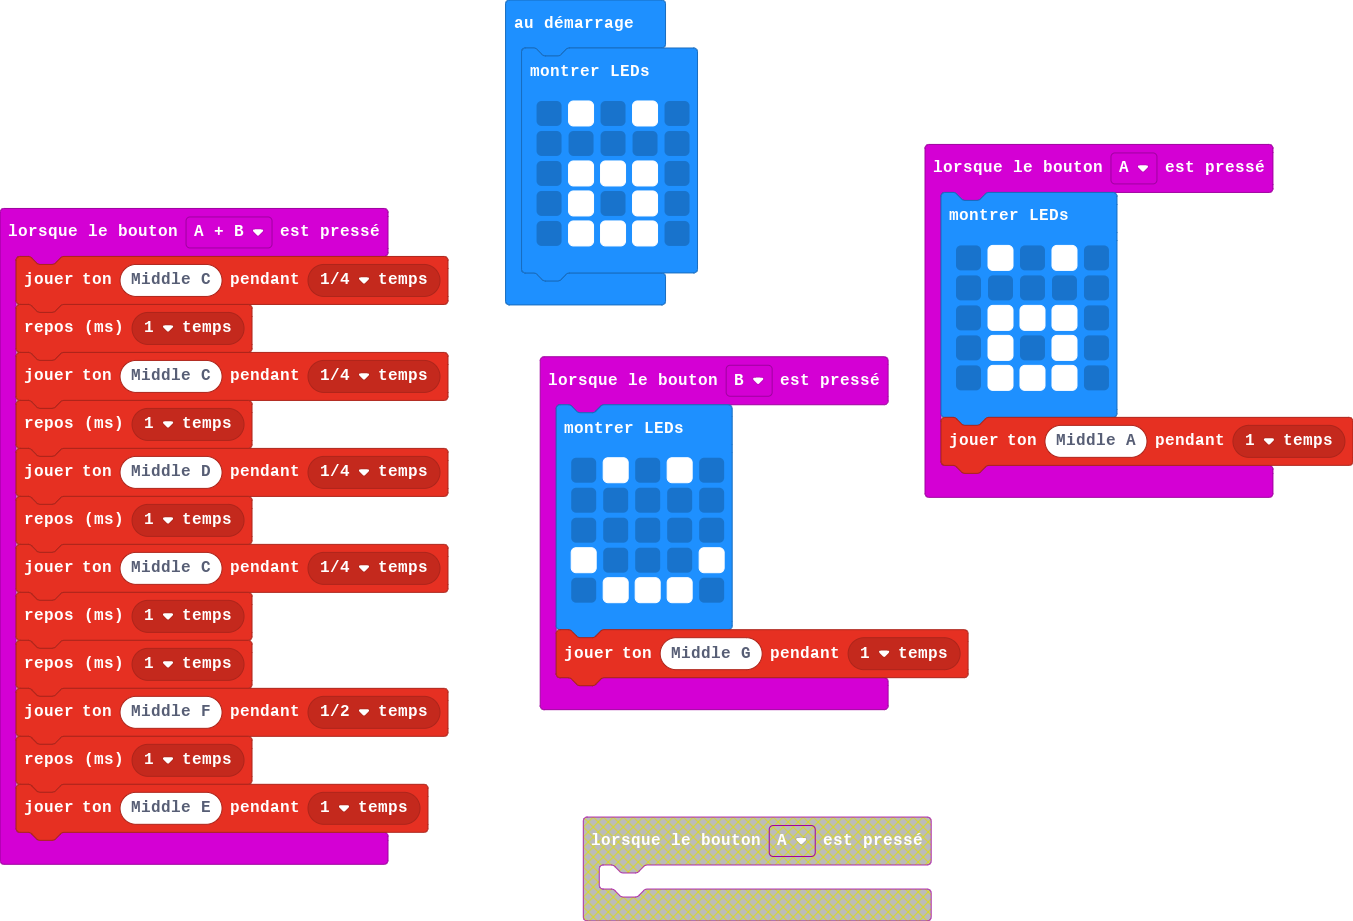
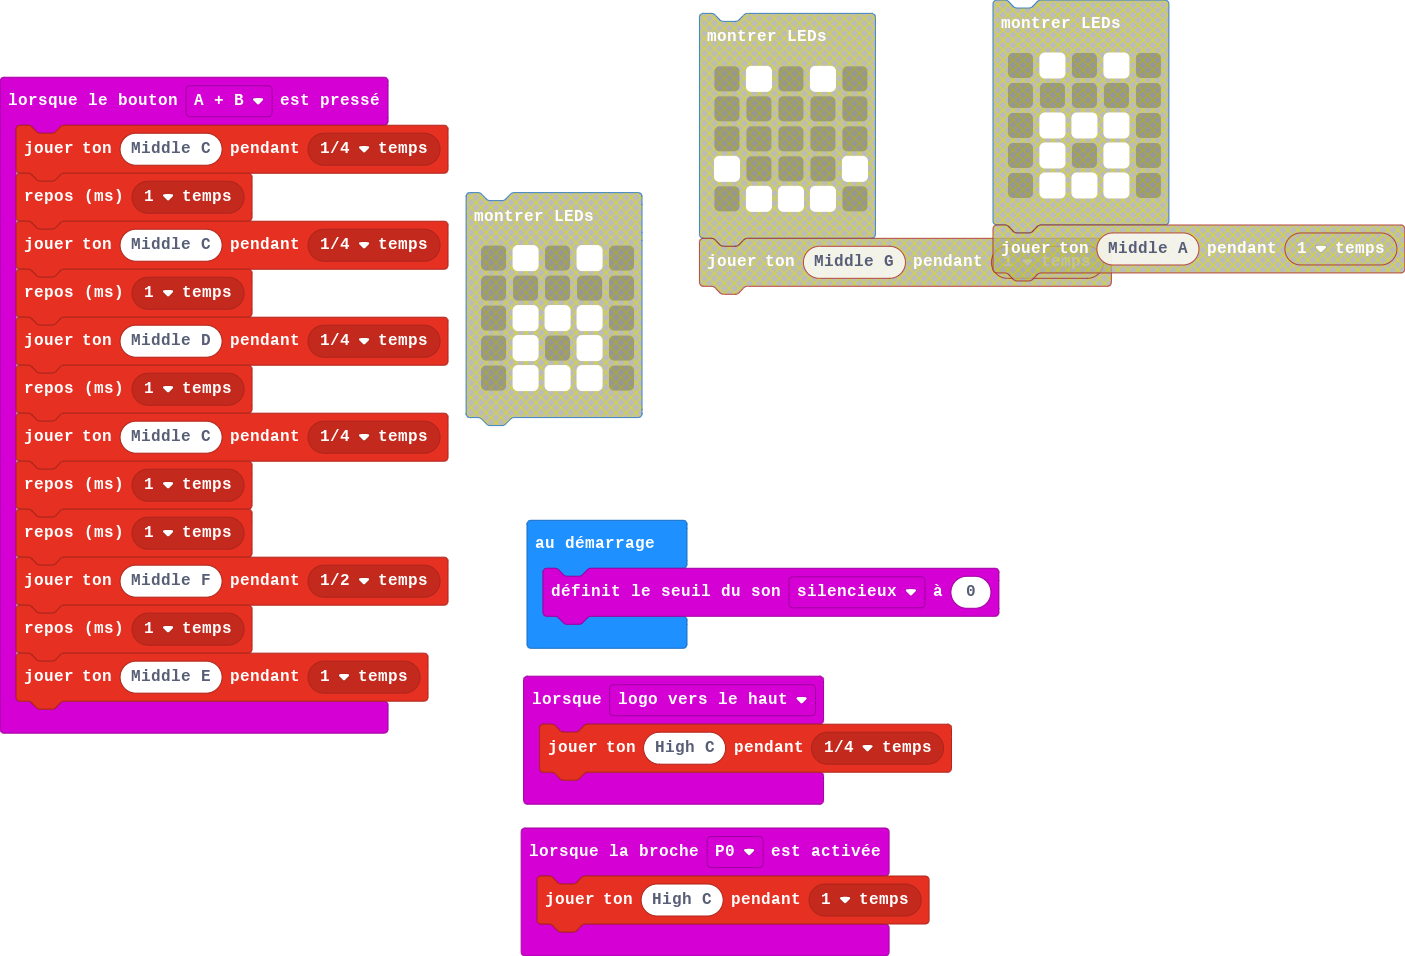
Mise à jour main.blocks, main.ts

diff --git a/main.ts b/main.ts
@@ -1,12 +1,8 @@
-input.onButtonPressed(Button.A, function () {
-    basic.showLeds(`
-        . # . # .
-        . . . . .
-        . # # # .
-        . # . # .
-        . # # # .
-        `)
-    music.playTone(440, music.beat(BeatFraction.Whole))
+input.onPinPressed(TouchPin.P0, function () {
+    music.playTone(523, music.beat(BeatFraction.Whole))
+})
+input.onGesture(Gesture.LogoUp, function () {
+    music.playTone(523, music.beat(BeatFraction.Quarter))
 })
 input.onButtonPressed(Button.AB, function () {
     music.playTone(262, music.beat(BeatFraction.Quarter))
@@ -22,20 +18,4 @@ input.onButtonPressed(Button.AB, function () {
     music.rest(music.beat(BeatFraction.Whole))
     music.playTone(330, music.beat(BeatFraction.Whole))
 })
-input.onButtonPressed(Button.B, function () {
-    basic.showLeds(`
-        . # . # .
-        . . . . .
-        . . . . .
-        # . . . #
-        . # # # .
-        `)
-    music.playTone(392, music.beat(BeatFraction.Whole))
-})
-basic.showLeds(`
-    . # . # .
-    . . . . .
-    . # # # .
-    . # . # .
-    . # # # .
-    `)
+input.setSoundThreshold(SoundThreshold.Quiet, 0)
